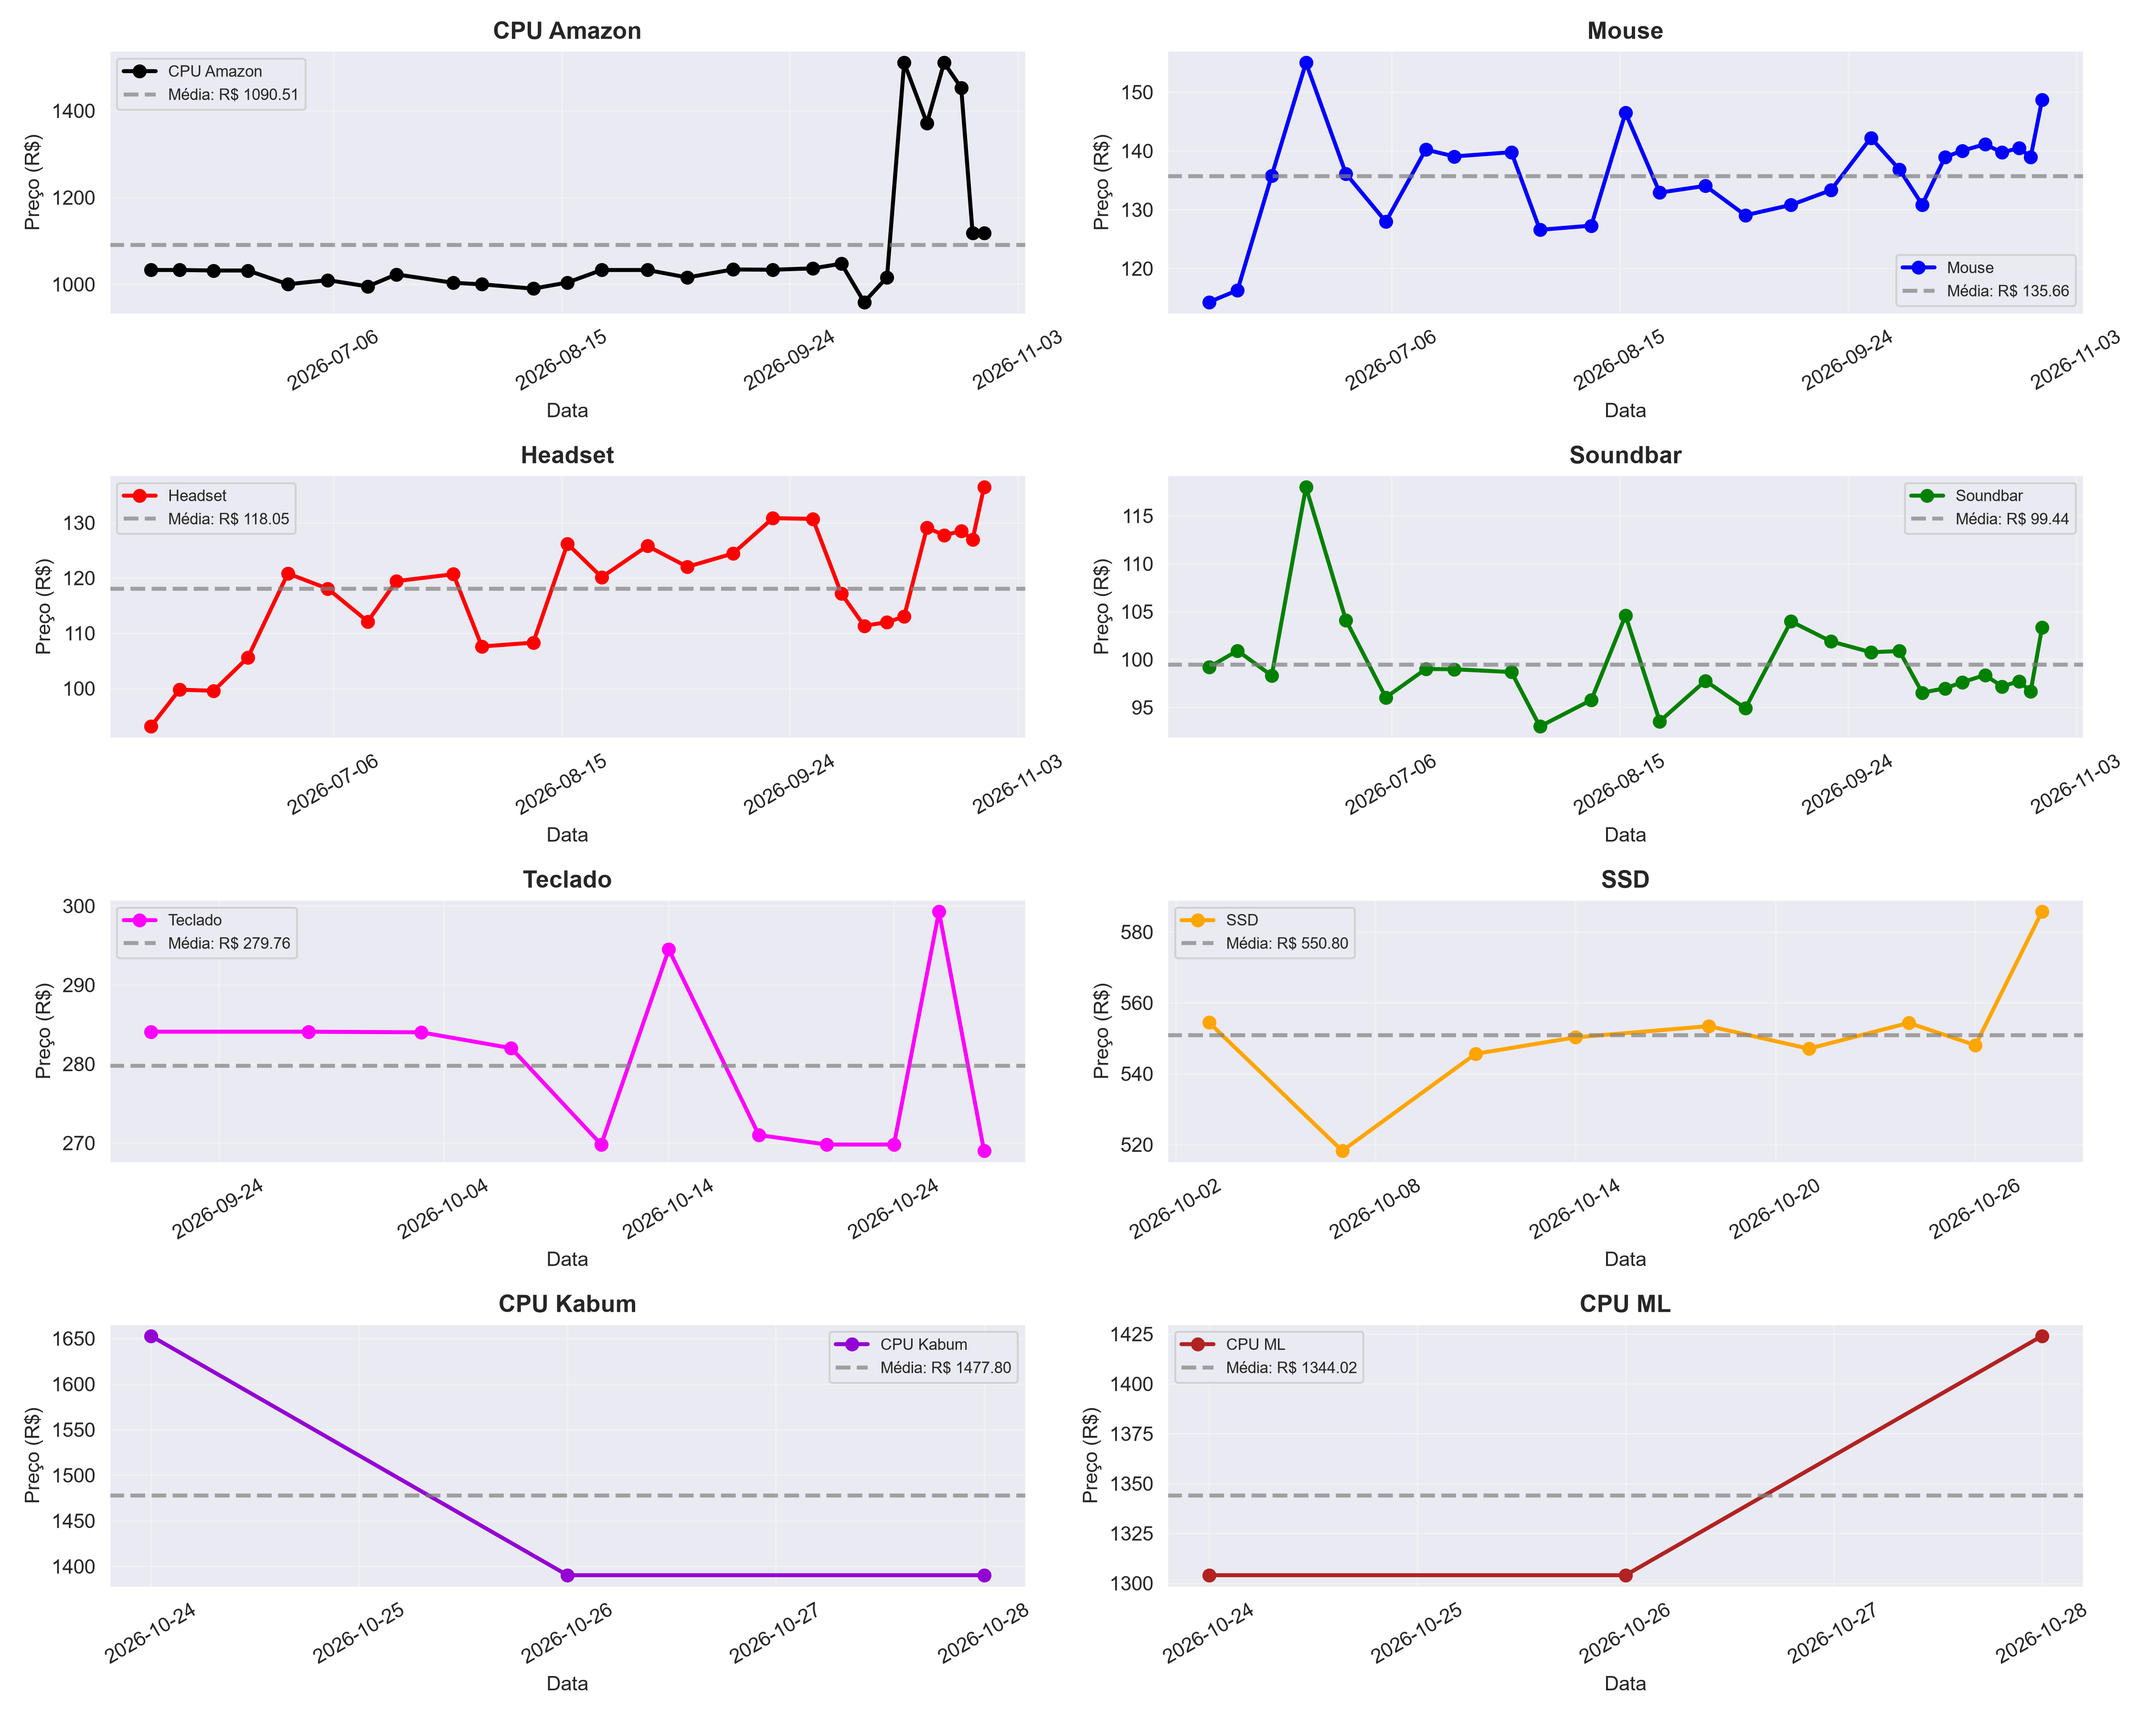
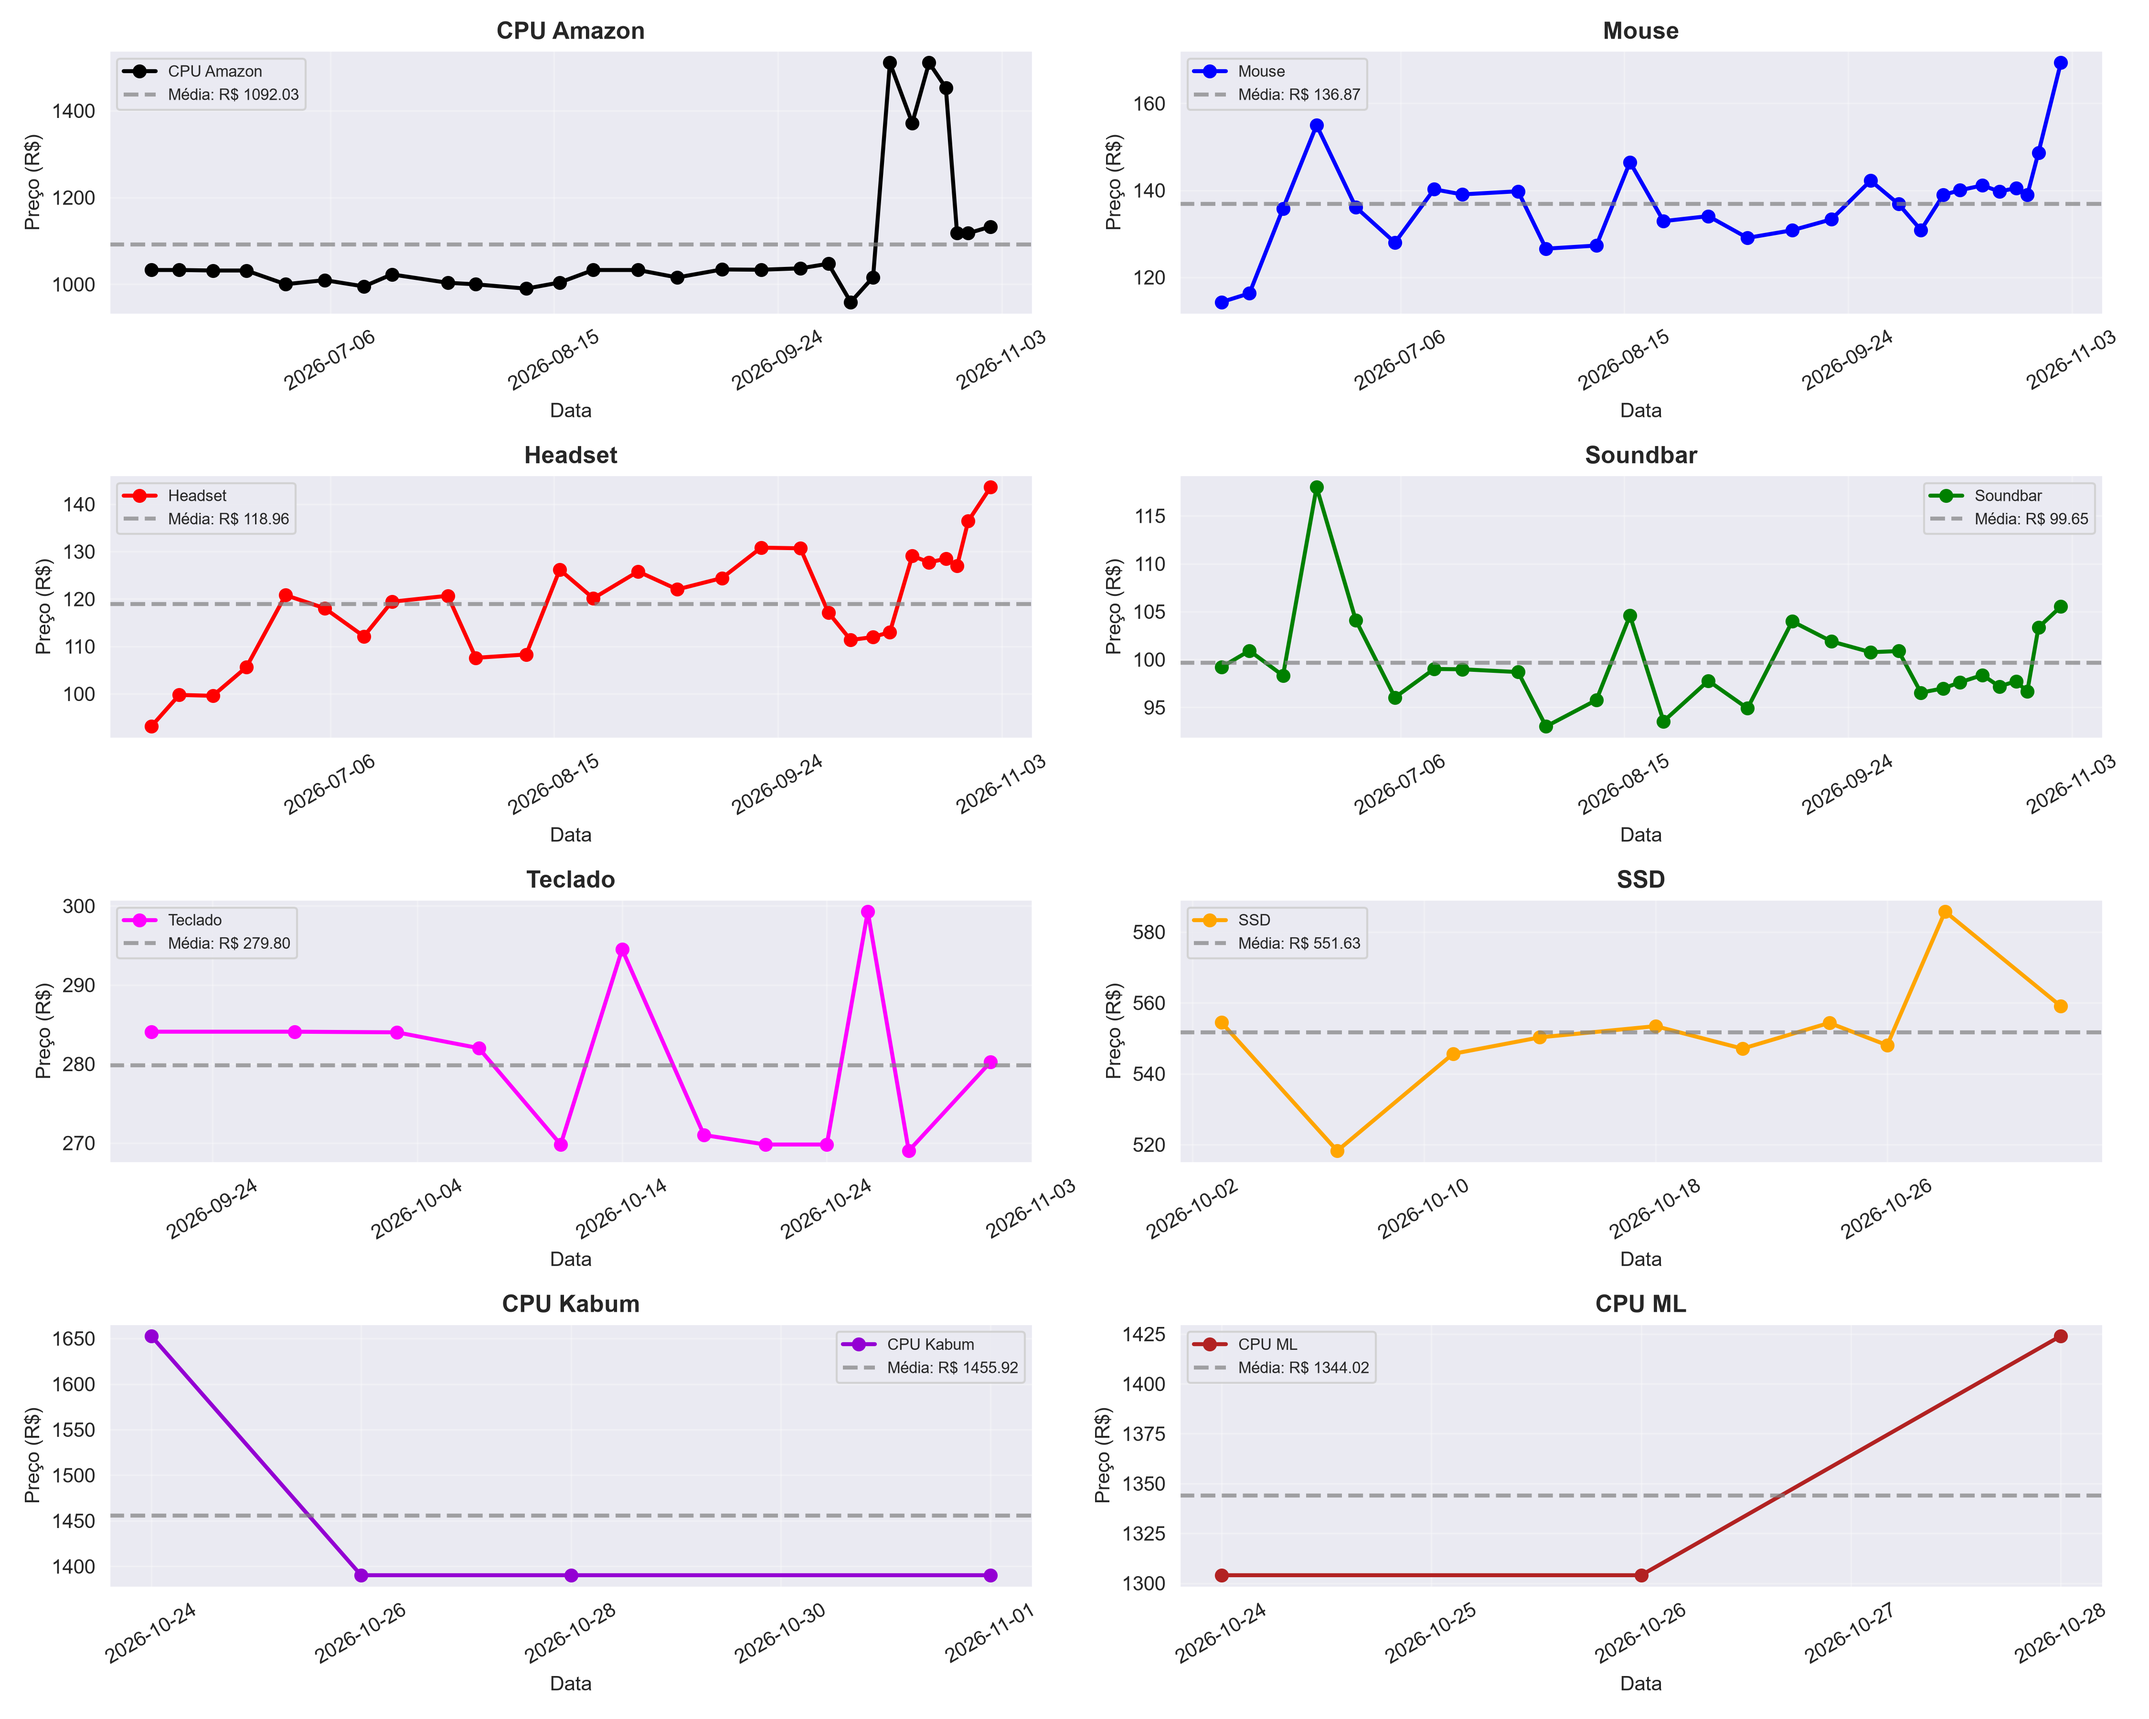
Adicionado link Headset_2 e removido links CPU_Kabum e CPU_ML.

diff --git a/main_file.py b/main_file.py
@@ -25,6 +25,7 @@ ssd_link = 'https://pt.aliexpress.com/item/1005008637007198.html?spm=a2g0o.detai
 gabinete_link = 'https://www.kabum.com.br/produto/887046/gabinete-gaming-c3tech-aquarius-com-vidro-temperado-sem-fonte-mt-g860bk-'
 mouse_link = 'https://pt.aliexpress.com/item/1005012371400759.html?spm=a2g0o.productlist.main.23.459c25f81bcfCL&algo_pvid=fe26c5bb-67a9-42a2-8835-77951b1c0678&algo_exp_id=fe26c5bb-67a9-42a2-8835-77951b1c0678-20&pdp_ext_f=%7B"order"%3A"23"%2C"eval"%3A"1"%2C"fromPage"%3A"search"%7D&pdp_npi=6%40dis%21BRL%21336.34%21147.99%21%21%21407.73%21179.40%21%402101f70717832764055654429e72c1%2112000058191763437%21sea%21BR%217714416806%21X%211%210%21n_tag%3A-29911%3Bd%3A137eff22%3Bm03_new_user%3A-29895&curPageLogUid=Lq0Biyq3hzZX&utparam-url=scene%3Asearch%7Cquery_from%3A%7Cx_object_id%3A1005012371400759%7C_p_origin_prod%3A'
 headset_link = 'https://pt.aliexpress.com/item/1005009495386384.html?aff_fcid=24cb7ac286da4a1dac72bd6b45a01629-1779218687223-01059-_c3gITj9D&tt=CPS_NORMAL&aff_fsk=_c3gITj9D&aff_platform=shareComponent-detail&sk=_c3gITj9D&aff_trace_key=24cb7ac286da4a1dac72bd6b45a01629-1779218687223-01059-_c3gITj9D&terminal_id=d874b61df0ea490bb40119dc36685fe8&afSmartRedirect=y'
+headset_2_link = 'https://pt.aliexpress.com/item/1005007887384358.html?pdp_ext_f=%7B"sku_id"%3A"12000043095444286"%7D&sourceType=1&spm=a2g0o.wish-manage-home.0.0&gatewayAdapt=glo2bra'
 soundbar_link = 'https://pt.aliexpress.com/item/1005006436035998.html?spm=a2g0o.productlist.main.2.26c7y0DSy0DSur&algo_pvid=a6a82e3c-ebe8-41ee-9da0-1fe9c6c92b4a&algo_exp_id=a6a82e3c-ebe8-41ee-9da0-1fe9c6c92b4a-1&pdp_ext_f=%7B"order"%3A"4969"%2C"spu_best_type"%3A"price"%2C"eval"%3A"1"%2C"fromPage"%3A"search"%7D&pdp_npi=6%40dis%21BRL%21229.12%21100.55%21%21%21287.08%21125.98%21%402103212b17798072772552193e62f7%2112000037173402947%21sea%21BR%210%21ABX%211%210%21n_tag%3A-29910%3Bd%3Aeaf596e%3Bm03_new_user%3A-29895%3BpisId%3A5000000207258923&curPageLogUid=jr5V9vRJV1Bl&utparam-url=scene%3Asearch%7Cquery_from%3A%7Cx_object_id%3A1005006436035998%7C_p_origin_prod%3A'
 keyboard_link = 'https://www.amazon.com.br/Teclado-Mecânico-Redragon-Kumara-Switch/dp/B0C1QFVYQJ/ref=asc_df_B0C1QFVYQJ?mcid=72fcea083724318fb0a2122c67ecec3d&tag=googleshopp00-20&linkCode=df0&hvadid=709884378379&hvpos=&hvnetw=g&hvrand=9615461458994901117&hvpone=&hvptwo=&hvqmt=&hvdev=c&hvdvcmdl=&hvlocint=&hvlocphy=1001621&hvtargid=pla-2243950074900&psc=1&hvocijid=9615461458994901117-B0C1QFVYQJ-&hvexpln=0&language=pt_BR'
 
@@ -130,54 +131,54 @@ print("Preço CPU Amazon adicionado!")
 #### PROCESSADOR KABUM ####
 ###########################
 
-driver.get(cpu_link_kabum)
-driver.implicitly_wait(6)
-
-cpu_kabum_ptbr = driver.find_element(By.XPATH, "//p[@class='text-xs font-normal leading-normal text-gray-700']/b[@class='text-xs']").get_property('innerText')
-cpu_kabum_price = cpu_kabum_ptbr.split('\xa0')[1].replace(',', '.')
-cpu_kabum_price = round(float(cpu_kabum_price)*10, 2)
-print(f"Preço CPU Kabum: {cpu_kabum_price}")
-
-item = 'CPU Kabum'
-descricao = 'AMD Ryzen 5 5600GT'
-data = date.today()
-
-new_data = pd.DataFrame([{
-    'Item': item,
-    'Descricao': descricao,
-    'Preco': cpu_kabum_price,
-    'Data': data
-}])
-
-df = pd.concat([df, new_data], ignore_index=True)
-print("Preço CPU Kabum adicionado!")
+#driver.get(cpu_link_kabum)
+#driver.implicitly_wait(6)
+#
+#cpu_kabum_ptbr = driver.find_element(By.XPATH, "//p[@class='text-xs font-normal leading-normal text-gray-700']/b[@class='text-xs']").get_property('innerText')
+#cpu_kabum_price = cpu_kabum_ptbr.split('\xa0')[1].replace(',', '.')
+#cpu_kabum_price = round(float(cpu_kabum_price)*10, 2)
+#print(f"Preço CPU Kabum: {cpu_kabum_price}")
+#
+#item = 'CPU Kabum'
+#descricao = 'AMD Ryzen 5 5600GT'
+#data = date.today()
+#
+#new_data = pd.DataFrame([{
+#    'Item': item,
+#    'Descricao': descricao,
+#    'Preco': cpu_kabum_price,
+#    'Data': data
+#}])
+#
+#df = pd.concat([df, new_data], ignore_index=True)
+#print("Preço CPU Kabum adicionado!")
 
 
 ########################
 #### PROCESSADOR ML ####
 ########################
 
-driver.get(cpu_link_ML)
-driver.implicitly_wait(6)
-
-cpu_ML_ptbr = driver.find_element(By.XPATH, "//div[@class='ui-pdp-price__second-line']").get_property('innerText')
-cpu_ML_price = cpu_ML_ptbr.split('\n')[1].replace('.', '')
-cpu_ML_price = float(cpu_ML_price)
-print(f"Preço CPU Mercado Livre: {cpu_ML_price}")
-
-item = 'CPU ML'
-descricao = 'AMD Ryzen 5 5600GT'
-data = date.today()
-
-new_data = pd.DataFrame([{
-    'Item': item,
-    'Descricao': descricao,
-    'Preco': cpu_ML_price,
-    'Data': data
-}])
-
-df = pd.concat([df, new_data], ignore_index=True)
-print("Preço CPU ML adicionado!")
+#driver.get(cpu_link_ML)
+#driver.implicitly_wait(6)
+#
+#cpu_ML_ptbr = driver.find_element(By.XPATH, "//div[@class='ui-pdp-price__second-line']").get_property('innerText')
+#cpu_ML_price = cpu_ML_ptbr.split('\n')[1].replace('.', '')
+#cpu_ML_price = float(cpu_ML_price)
+#print(f"Preço CPU Mercado Livre: {cpu_ML_price}")
+#
+#item = 'CPU ML'
+#descricao = 'AMD Ryzen 5 5600GT'
+#data = date.today()
+#
+#new_data = pd.DataFrame([{
+#    'Item': item,
+#    'Descricao': descricao,
+#    'Preco': cpu_ML_price,
+#    'Data': data
+#}])
+#
+#df = pd.concat([df, new_data], ignore_index=True)
+#print("Preço CPU ML adicionado!")
 
 
 #####################
@@ -243,28 +244,28 @@ print("Preço CPU ML adicionado!")
 #### TECLADO ####
 #################
 
-driver.get(keyboard_link)
-driver.implicitly_wait(6)
-
-keyboard_ptbr = driver.find_element(By.XPATH, "//div[@class='a-section apex-core-price-identifier']").get_property('innerText')
-
-keyboard_price = keyboard_ptbr.split('\n')[0].split('$')[1].replace(',', '.')
-keyboard_price = float(keyboard_price)
-print(f"Preço Teclado: {keyboard_price}")
-
-item = 'Teclado'
-descricao = 'Redragon Kumara Wireless'
-data = date.today()
-
-new_data = pd.DataFrame([{
-    'Item': item,
-    'Descricao': descricao,
-    'Preco': keyboard_price,
-    'Data': data
-}])
-
-df = pd.concat([df, new_data], ignore_index=True)
-print("Preço Teclado adicionado!")
+#driver.get(keyboard_link)
+#driver.implicitly_wait(6)
+#
+#keyboard_ptbr = driver.find_element(By.XPATH, "//div[@class='a-section apex-core-price-identifier']").get_property('innerText')
+#
+#keyboard_price = keyboard_ptbr.split('\n')[0].split('$')[1].replace(',', '.')
+#keyboard_price = float(keyboard_price)
+#print(f"Preço Teclado: {keyboard_price}")
+#
+#item = 'Teclado'
+#descricao = 'Redragon Kumara Wireless'
+#data = date.today()
+#
+#new_data = pd.DataFrame([{
+#    'Item': item,
+#    'Descricao': descricao,
+#    'Preco': keyboard_price,
+#    'Data': data
+#}])
+#
+#df = pd.concat([df, new_data], ignore_index=True)
+#print("Preço Teclado adicionado!")
 
 
 
@@ -310,7 +311,6 @@ button.click()
 headset_ptbr = driver.find_element(By.XPATH, "//div[@class='price-default--currentWrap--A_MNgCG']").get_property('innerText')
 headset_price = headset_ptbr.split('$')[1].replace(',', '.')
 headset_price = float(headset_price)
-headset_price
 print(f"Preço Headset: {headset_price}")
 
 item = 'Headset'
@@ -326,6 +326,32 @@ new_data = pd.DataFrame([{
 
 df = pd.concat([df, new_data], ignore_index=True)
 print("Preço Headset adicionado!")
+
+
+###################
+#### HEADSET_2 ####
+###################
+
+driver.get(headset_2_link)
+
+headset_2_ptbr = driver.find_element(By.XPATH, "//span[@class='price-default--current--F8OlYIo']").get_property('innerText')
+headset_2_price = headset_2_ptbr.split('$')[1].replace(',', '.')
+headset_2_price = float(headset_2_price)
+print(f"Preço Headset: {headset_2_price}")
+
+item = 'Headset_2'
+descricao = 'SmallWOLF Bluetooth'
+data = date.today()
+
+new_data = pd.DataFrame([{
+    'Item': item,
+    'Descricao': descricao,
+    'Preco': headset_2_price,
+    'Data': data
+}])
+
+df = pd.concat([df, new_data], ignore_index=True)
+print("Preço Headset_2 adicionado!")
 
 
 #############
